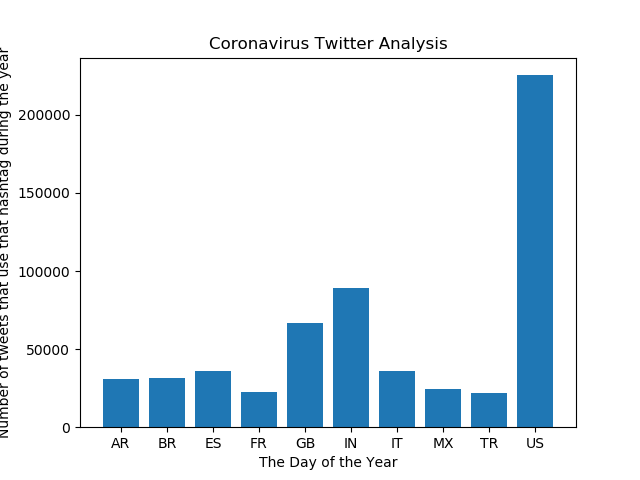
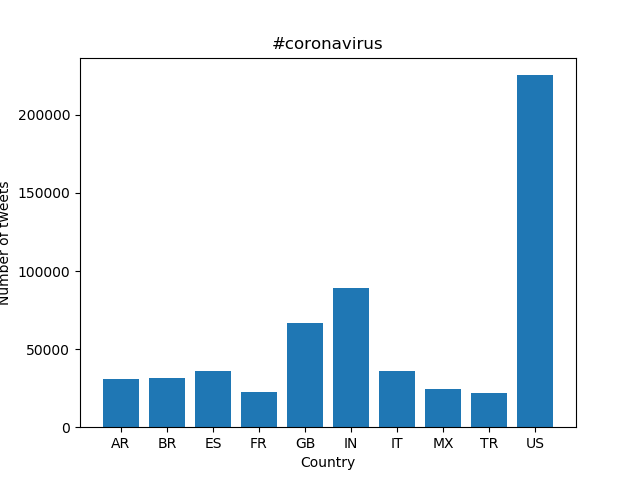
fix titles

Changed region(s): [[0.0, 0.0938, 0.0312, 0.9062], [0.3125, 0.0625, 0.6875, 0.125], [0.4062, 0.9375, 0.625, 1.0]]

diff --git a/src/visualize.py b/src/visualize.py
@@ -33,9 +33,9 @@ top_10_items = items[:10]
 k = [item[0] for item in top_10_items]
 v = [item[1] for item in top_10_items]
 plt.bar(k, v)
-plt.xlabel('The Day of the Year')
-plt.ylabel('Number of tweets that use that hashtag during the year')
-plt.title('Coronavirus Twitter Analysis')
+plt.xlabel('Language')
+plt.ylabel('Number of tweets')
+plt.title('#coronavirus')
 if args.input_path[-1] == 'g':
     plt.savefig(args.key[1:] + '_lang.png')
 else:
